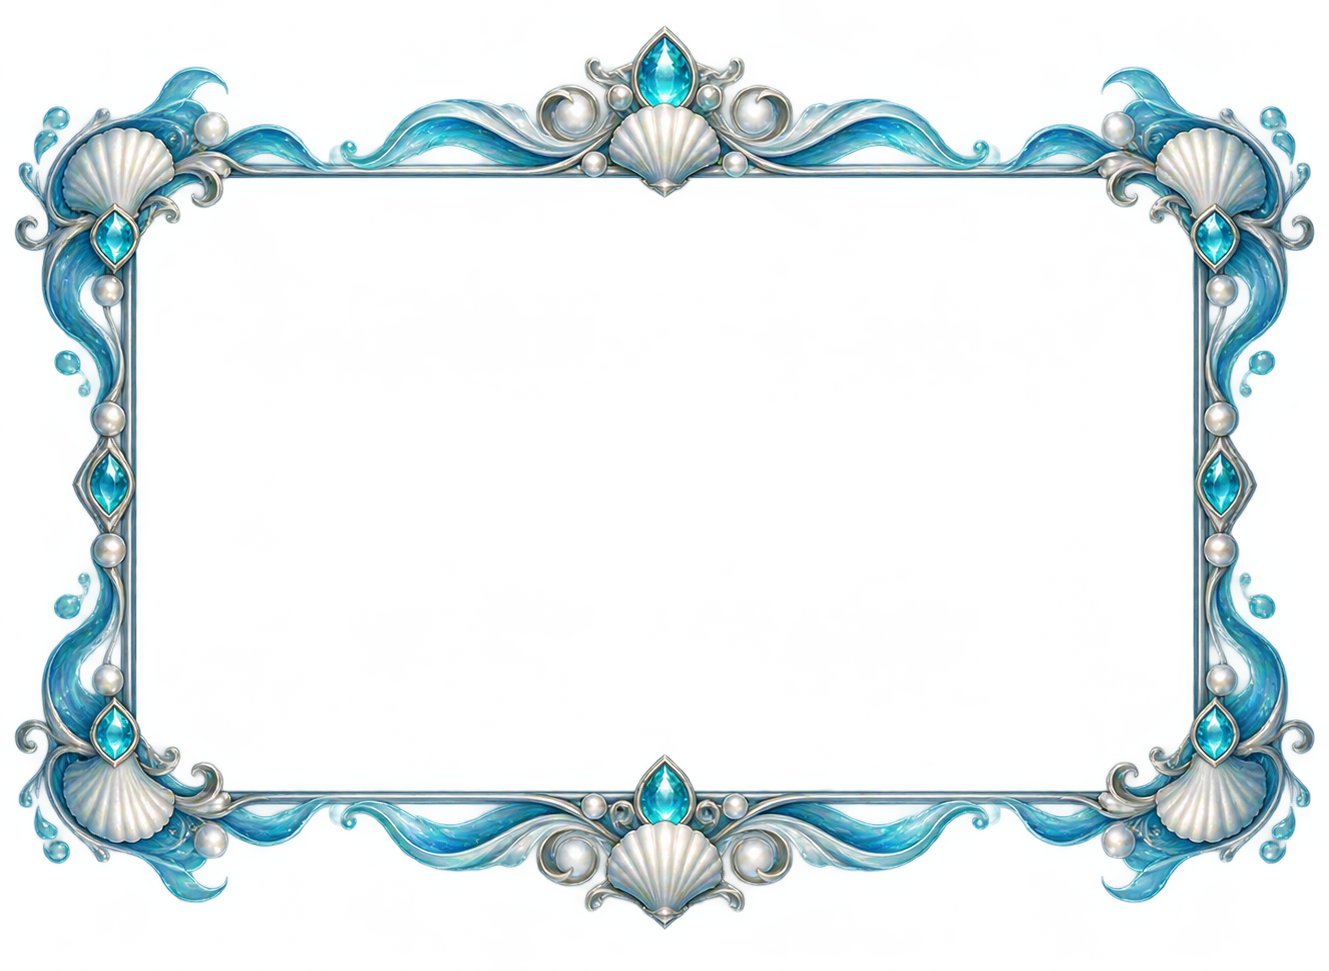
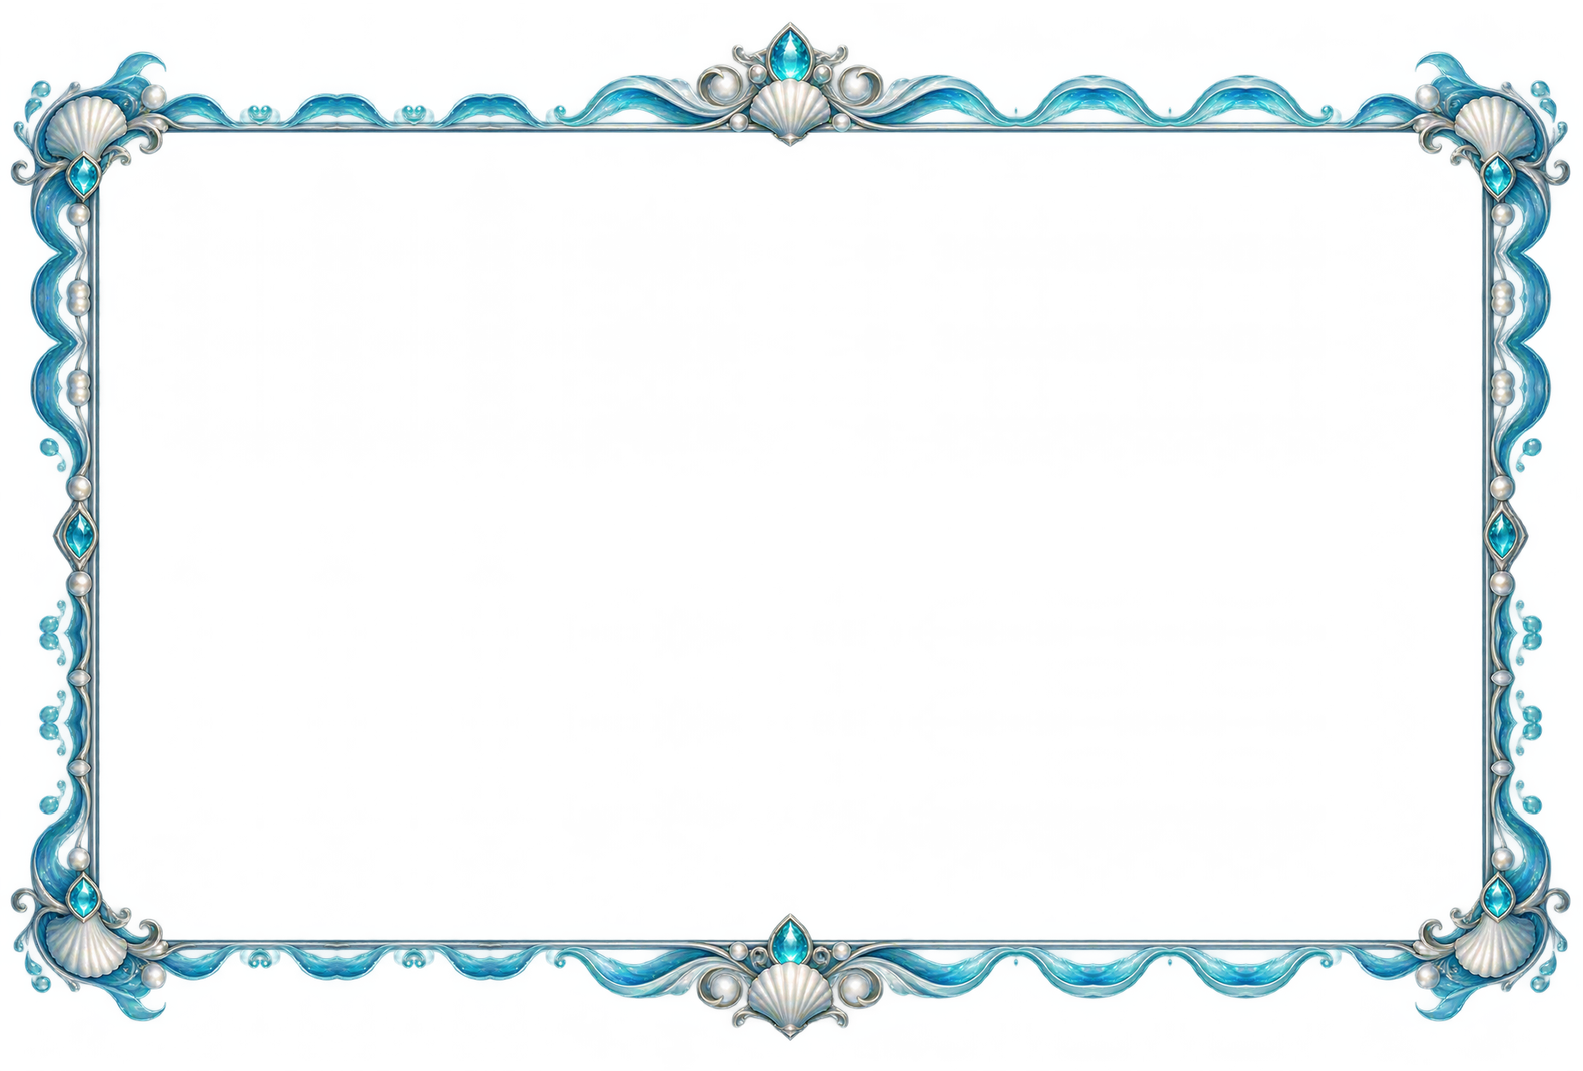
Match Ocean profile size to Celestial

Changed region(s): [[0.0, 0.0309, 1.0, 0.9887]]

diff --git a/test_bot.py b/test_bot.py
@@ -4667,6 +4667,8 @@ class ProfileTests(unittest.IsolatedAsyncioTestCase):
 
     def test_shop_frames_fit_native_profile_without_warping(self) -> None:
         stats = self.bot.profile_stats_for_user(SERVER_ID, 123)
+        frame_sizes: dict[str, tuple[int, int]] = {}
+        card_positions: dict[str, tuple[int, int]] = {}
         for frame_key in ("celestial", "ocean"):
             for backgrounds in (
                 {},
@@ -4703,6 +4705,8 @@ class ProfileTests(unittest.IsolatedAsyncioTestCase):
                             delta=0.001,
                         )
                     x, y = round(left * scale), round(top * scale)
+                    frame_sizes[frame_key] = frame.size
+                    card_positions[frame_key] = (x, y)
                     expected = Image.new("RGBA", frame.size, (0, 0, 0, 0))
                     expected.alpha_composite(card, (x, y))
                     expected.alpha_composite(frame)
@@ -4729,6 +4733,8 @@ class ProfileTests(unittest.IsolatedAsyncioTestCase):
                                 ).getextrema()[1],
                                 2,
                             )
+        self.assertEqual(frame_sizes["ocean"], frame_sizes["celestial"])
+        self.assertEqual(card_positions["ocean"], card_positions["celestial"])
 
     def test_shop_frames_use_selected_background_and_dyes(self) -> None:
         stats = self.bot.profile_stats_for_user(SERVER_ID, 123)

diff --git a/bot.py b/bot.py
@@ -312,7 +312,7 @@ PROFILE_FRAME_OPENINGS: Final[dict[str, tuple[int, int, int, int]]] = {
     "magic": (50, 71, 1416, 866),
     "amethyst": (20, 45, 1095, 723),
     "celestial": (82, 110, 1339, 851),
-    "ocean": (125, 165, 1206, 802),
+    "ocean": (91, 123, 1491, 948),
 }
 PROFILE_FRAME_SCALES: Final[dict[str, float]] = {
     "mystic": 1.0,
